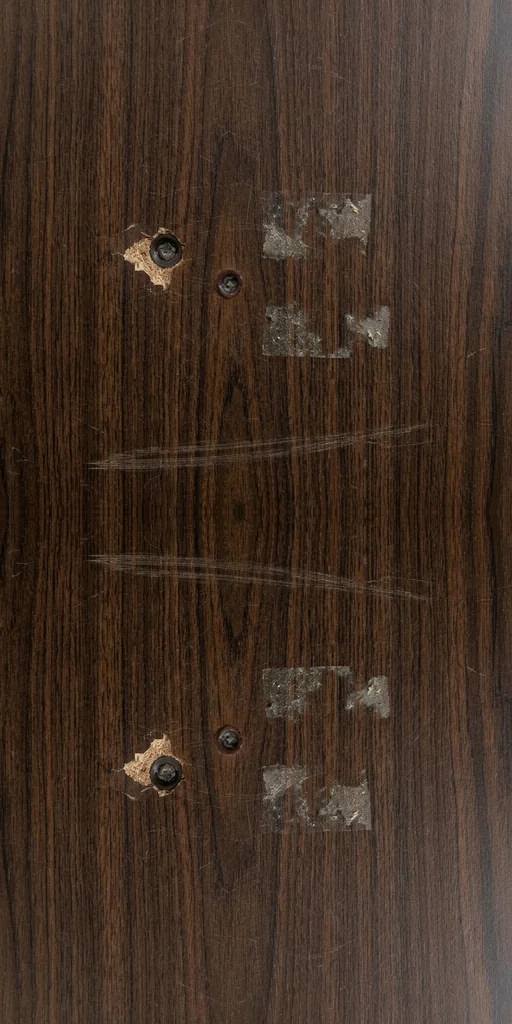
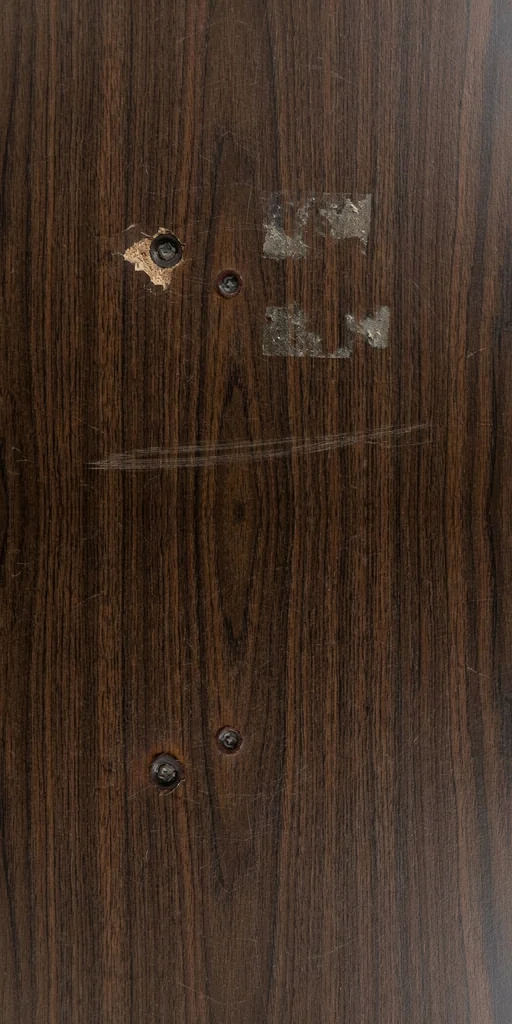
borne : la console passe devant les bandes des flancs ; Lore collé au hasard sur le bois de la caisse, hors de la plaque ; molettes dans le meuble (borne-cabinet.css, borne-cabinet.js) ; formica usé par cycles de deux à trois jours par palier, métal inchangé ; flanc usé sans symétrie miroir (skin-bo

diff --git a/borne/borne-cabinet.js b/borne/borne-cabinet.js
@@ -126,7 +126,7 @@
     s.setProperty('--i-cam','url('+pick(['camera-a.webp','camera-c.webp'])+')');/* caméras du toit : la webcam à pied et lentille bleue, ou la compacte Korhogo (décision de Mauk Tenieb, 30 oct., 22 h 40) */var mt='manette-a.webp';/* la manette courte, à embase (décision de Mauk Tenieb, 30 oct., 23 h 33 : plus réaliste) */s.setProperty('--i-stick','url('+mt+')');s.setProperty('--stk-cut',mt==='manette-a.webp'?'50%':'76%');s.setProperty('--ball-cut',mt==='manette-a.webp'?'39.5%':'37.5%');})();
   var sw=el('div','b-knobw'),sb=el('button','b-knob b-skin');sb.type='button';sb.setAttribute('aria-label','Skin');sb.dataset.pos=SKINS.indexOf(skin);
   sw.appendChild(sb);sw.appendChild(el('span','b-knoblab','🧤'));knobs.appendChild(sw);
-  sb.onclick=function(){try{window.__borneUsure&&window.__borneUsure(0);}catch(e){}skin=SKINS[(SKINS.indexOf(skin)+1)%SKINS.length];sb.dataset.pos=SKINS.indexOf(skin);try{localStorage.setItem('borne.skin',skin);}catch(e){}
+  sb.onclick=function(){try{window.__borneUsure&&window.__borneUsure();}catch(e){}skin=SKINS[(SKINS.indexOf(skin)+1)%SKINS.length];sb.dataset.pos=SKINS.indexOf(skin);try{localStorage.setItem('borne.skin',skin);}catch(e){}
     try{IK().tone&&IK().tone(220,.05,'square',.03);IK().tone&&IK().tone(330,.05,'square',.03,0,.06);}catch(e){}
     scr.classList.remove('b-morph');void scr.offsetWidth;scr.classList.add('b-morph');setTimeout(function(){if(skin==='1960')variants();root.dataset.skin=skin;},250);};
   /* VOL : la molette du volume de la machine (sons des jeux et de la mécanique) ; trois crans, 0, moyen, fort */
@@ -409,23 +409,24 @@
   window.__borneFirst=function(){var a=[land,badge];if(Math.random()<.5)a.reverse();return a;};
   window.__borneScreen=function(){return {left:0,top:0,right:innerWidth,bottom:innerHeight,width:innerWidth,height:innerHeight};};
 
-  /* l'autocollant Lore, collé au hasard : au coin du cadre, ou sur la caisse à pièces, de travers */
+  /* l'autocollant Lore, collé au hasard n'importe où sur la caisse à pièces, de travers (Mauk Tenieb, 31 oct. : il ne fait pas partie de la plaque de la fente) */
   (function(){var slot=document.querySelector('.b-slot');if(!slot)return;
     lore.addEventListener('click',function(e){e.stopPropagation();});
-    function place(){if(!slot.offsetWidth){setTimeout(place,300);return;}var S=slot.getBoundingClientRect(),avoid=[];[slot.querySelector('b'),slot.querySelector('i')].filter(Boolean).forEach(function(x){var r=x.getBoundingClientRect();for(var z=0;z<6;z++)avoid.push({left:r.left-8,top:r.top-8,right:r.right+8,bottom:r.bottom+8});});
+    function place(){if(!slot.offsetWidth){setTimeout(place,300);return;}var P=slot.getBoundingClientRect(),door=slot.closest('.b-door')||slot.parentElement,S=door.getBoundingClientRect(),avoid=[];[slot.querySelector('b'),slot.querySelector('i')].filter(Boolean).forEach(function(x){var r=x.getBoundingClientRect();for(var z=0;z<6;z++)avoid.push({left:r.left-8,top:r.top-8,right:r.right+8,bottom:r.bottom+8});});
       /* la fente et la serrure de chaque porte (en % de la porte) */
       var OPEN={bois:[[30,14,72,60],[60,62,86,92]],metal:[[40,14,60,52],[66,58,86,86]]}[document.documentElement.dataset.skin]||[];
-      OPEN.forEach(function(o){avoid.push({left:S.left+S.width*o[0]/100,top:S.top+S.height*o[1]/100,right:S.left+S.width*o[2]/100,bottom:S.top+S.height*o[3]/100});});
+      var BL=document.documentElement.hasAttribute('data-bland');for(var z0=0;z0<(BL?1:3);z0++)avoid.push({left:P.left-6,top:P.top-6,right:P.right+6,bottom:P.bottom+6});/* sur le bois de la caisse, hors de la plaque */
+      OPEN.forEach(function(o){for(var z=0;z<6;z++)avoid.push({left:P.left+P.width*o[0]/100,top:P.top+P.height*o[1]/100,right:P.left+P.width*o[2]/100,bottom:P.top+P.height*o[3]/100});});
       /* ni sur la plaque des molettes, ni sur l'aimant, ni hors du meuble */
-      ['.b-knobs','.b-dekonect','.b-lamp.b-l1','.b-lamp.b-l2'].forEach(function(q){var e=document.querySelector(q);if(e&&e.offsetWidth){var r=e.getBoundingClientRect();for(var z=0;z<3;z++)avoid.push({left:r.left-6,top:r.top-6,right:r.right+6,bottom:r.bottom+6});}});
+      ['.b-knobs','.b-dekonect','.b-lamp.b-l1','.b-lamp.b-l2'].concat(BL?['#home .b-bezel']:[]).forEach(function(q){var e=document.querySelector(q);if(e&&e.offsetWidth){var r=e.getBoundingClientRect();for(var z=0;z<(BL?8:3);z++)avoid.push({left:r.left-6,top:r.top-6,right:r.right+6,bottom:r.bottom+6});}});
       var WR=(document.querySelector('.wrap')||document.body).getBoundingClientRect();
-      [[-1e4,-1e4,WR.left+8,1e4],[WR.right-8,-1e4,1e4,1e4]].forEach(function(r){for(var z=0;z<3;z++)avoid.push({left:r[0],top:r[1],right:r[2],bottom:r[3]});});
-      var C=[[-12,-14],[68,-14],[-14,70],[-16,30],[72,30],[3,4],[58,4],[3,64]];for(var gx=-20;gx<=76;gx+=8)for(var gy=-20;gy<=78;gy+=9)C.push([gx,gy]);C.sort(function(){return Math.random()-.5;});var w=lore.offsetWidth||108,h=lore.offsetHeight||50;
+      [[-1e4,-1e4,WR.left+8,1e4],[WR.right-8,-1e4,1e4,1e4]].concat(BL?[[-1e4,Math.min(WR.bottom,innerHeight)-2,1e4,1e4]]:[]).forEach(function(r){for(var z=0;z<3;z++)avoid.push({left:r[0],top:r[1],right:r[2],bottom:r[3]});});
+      var C=[];for(var gx=-4;gx<=86;gx+=4)for(var gy=-6;gy<=92;gy+=4)C.push([gx,gy]);C.sort(function(){return Math.random()-.5;});var w=lore.offsetWidth||108,h=lore.offsetHeight||50;
       var best=null,bo=1e9;C.forEach(function(c){var L=S.left+S.width*c[0]/100,T=S.top+S.height*c[1]/100,o=0;avoid.forEach(function(a){o+=Math.max(0,Math.min(L+w,a.right)-Math.max(L,a.left))*Math.max(0,Math.min(T+h,a.bottom)-Math.max(T,a.top));});if(o<bo){bo=o;best=c;}});
       C=[best];
       for(var k=0;k<C.length;k++){
         if(true){lore.classList.remove('b-stuck');lore.classList.add('b-onbox');lore.style.setProperty('--lx',C[k][0]+'%');lore.style.setProperty('--ly',C[k][1]+'%');
-          lore.style.setProperty('--lr',((Math.random()*2-1)*12).toFixed(1)+'deg');slot.appendChild(lore);return;}}}
+          lore.style.setProperty('--lr',((Math.random()*2-1)*12).toFixed(1)+'deg');door.appendChild(lore);return;}}}
     setTimeout(place,500);
     var RW=innerWidth;addEventListener('resize',function(){if(Math.abs(innerWidth-RW)>40){RW=innerWidth;clearTimeout(lore._rt);lore._rt=setTimeout(place,500);}});
     /* un autre skin, une autre caisse : l'autocollant se recolle hors de la fente et de son étiquette */
@@ -574,17 +575,16 @@
   knob();
 })();
 
-/* vieillissement (décision de Mauk Tenieb, 30 oct. ; images Midjourney Retexture du 30 oct., 22 h 30) : la borne s'use avec les visites du visiteur,
-   comptées dans son navigateur ; 5 visites : usure légère, 20 : moyenne, 60 : forte ; le bouton SKIN remet la borne à neuf (compteur à zéro) ; le skin tiré au hasard à l'arrivée garde le compteur.
-   Le skin bois seul a ses images usées (panneau, flanc, porte) */
-(function(){var K='borne.usure',d=document.documentElement;
-  function get(){try{return JSON.parse(localStorage.getItem(K)||'{}')||{};}catch(e){return {};}}
+/* vieillissement du formica (décisions de Mauk Tenieb, 30 et 31 oct.) : la borne s'use avec le temps, d'un palier tous les deux ou trois jours
+   (neuve, légère, moyenne, forte), puis le cycle recommence ; le bouton SKIN la remet à neuf. Le skin métal reste tel quel.
+   Le temps se compte dans le navigateur du visiteur, depuis sa première visite. */
+(function(){var K='borne.usure2',d=document.documentElement,DAY=864e5;
+  function get(){try{return JSON.parse(localStorage.getItem(K)||'null');}catch(e){return null;}}
   function put(o){try{localStorage.setItem(K,JSON.stringify(o));}catch(e){}}
-  function show(n){var t=n>=60?3:n>=20?2:n>=5?1:0;if(t)d.dataset.usure=String(t);else delete d.dataset.usure;}
-  function apply(fresh){var o=get();
-    if(fresh){var s=null;try{s=sessionStorage.getItem(K);}catch(e){}if(!s){o.n=(o.n||0)+1;try{sessionStorage.setItem(K,'1');}catch(e){}}}
-    put(o);show(o.n||0);}
-  apply(true);
-  /* aperçu pour l'auteur : ?usure=1, 2 ou 3 montre un palier sans toucher au compteur, avec le skin bois */
-  try{var q=/[?&]usure=([0-3])/.exec(location.search);if(q){d.dataset.skin='bois';if(+q[1])d.dataset.usure=q[1];else delete d.dataset.usure;}}catch(e){}
-  window.__borneUsure=function(n){var o=get();o.n=n;put(o);show(n);};})();
+  function fresh(){var o={t0:Date.now(),st:[0,1,2,3].map(function(){return Math.round((2+Math.random())*DAY);})};put(o);return o;}
+  function tier(o){var e=Date.now()-o.t0,cyc=o.st.reduce(function(a,b){return a+b;},0);e=e%cyc;for(var k=0;k<4;k++){if(e<o.st[k])return k;e-=o.st[k];}return 0;}
+  function show(t){if(t)d.dataset.usure=String(t);else delete d.dataset.usure;}
+  var o=get()||fresh();show(tier(o));setInterval(function(){show(tier(get()||o));},36e5);
+  /* aperçu pour l'auteur : ?usure=1, 2 ou 3 montre un palier sans toucher au temps, avec le skin bois */
+  try{var q=/[?&]usure=([0-3])/.exec(location.search);if(q){d.dataset.skin='bois';show(+q[1]);}}catch(e){}
+  window.__borneUsure=function(){o=fresh();show(0);};})();

diff --git a/borne/borne-cabinet.css b/borne/borne-cabinet.css
@@ -1142,3 +1142,11 @@ html.borne .gkoin{font-size:0!important;width:24px;height:24px;background:url(ko
 html.borne.b-nopsy .guide,html.borne.b-nopsy .gtip{display:none!important}
 /* le copyright laisse la place de l'aimant Dekonect, en bas à droite */
 html.borne .b-copy{padding-right:max(var(--inset,12px),64px)!important}
+/* 31 oct. — Lore posé sur la caisse (la porte), plus sur la plaque de la fente */
+html.borne .b-door{position:relative}
+html.borne .b-door>.b-lore.b-onbox{position:absolute;left:var(--lx,20%);top:var(--ly,10%);z-index:6;width:84px!important;height:38px!important;font-size:.9rem!important;transform:rotate(var(--lr,-6deg))}
+html.borne .b-door>.b-lore.b-onbox:hover{transform:rotate(var(--lr,-6deg)) scale(1.06)}
+/* 31 oct. — la console en perspective passe devant les bandes peintes des flancs (les tiges droites traversaient ses pans obliques) */
+html.borne #home .b-panel{z-index:2}
+/* 31 oct. — la plaque des molettes tient dans la caisse (elle débordait du flanc droit sous 1500 px) */
+@media (max-width:1500px) and (min-width:701px){html.borne .b-door>.b-knobs{zoom:.86}}

diff --git a/borne/sw.js b/borne/sw.js
@@ -1,5 +1,5 @@
 /* Insert Koin: pages and code from the network first (the cache only when offline); images, fonts and wasm from the cache, then refreshed */
-const C='borne-202610310012';  // prefix borne- : this worker clears only its own caches, Insert Koin's ik- caches stay
+const C='borne-202610310030';  // prefix borne- : this worker clears only its own caches, Insert Koin's ik- caches stay
 self.addEventListener('install',e=>self.skipWaiting());
 self.addEventListener('activate',e=>e.waitUntil(caches.keys().then(ks=>Promise.all(ks.filter(k=>k!==C&&(k.indexOf('borne-')===0||k==='ik-202610250015')).map(k=>caches.delete(k)))).then(()=>self.clients.claim())));
 self.addEventListener('fetch',e=>{const u=new URL(e.request.url);if(e.request.method!=='GET'||u.origin!==location.origin)return;
